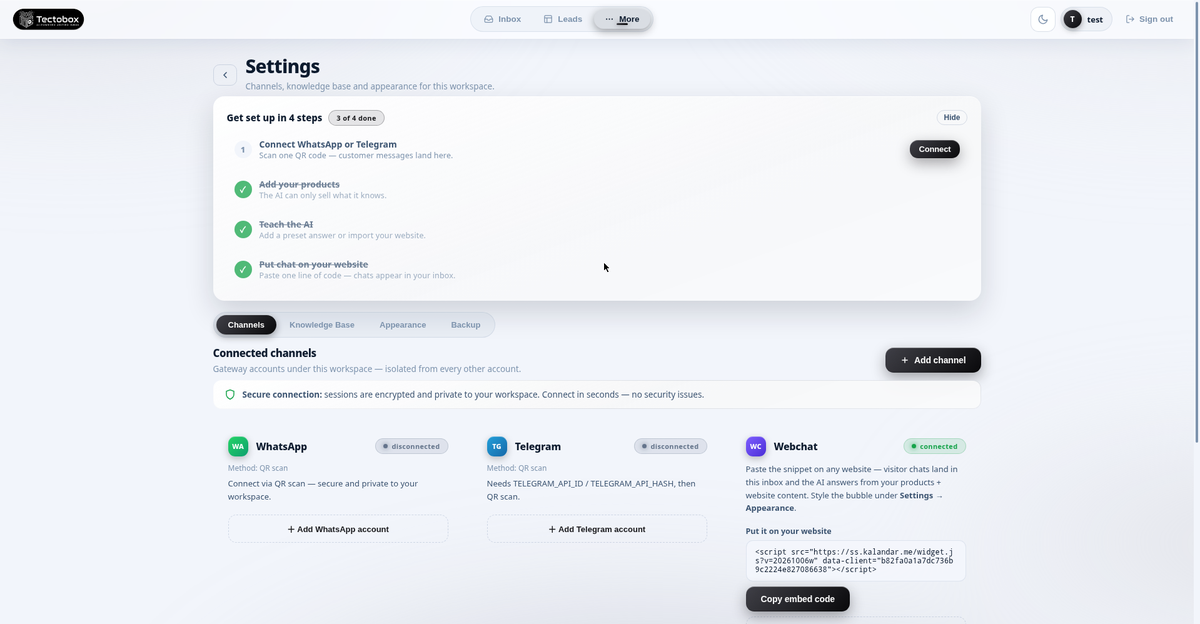
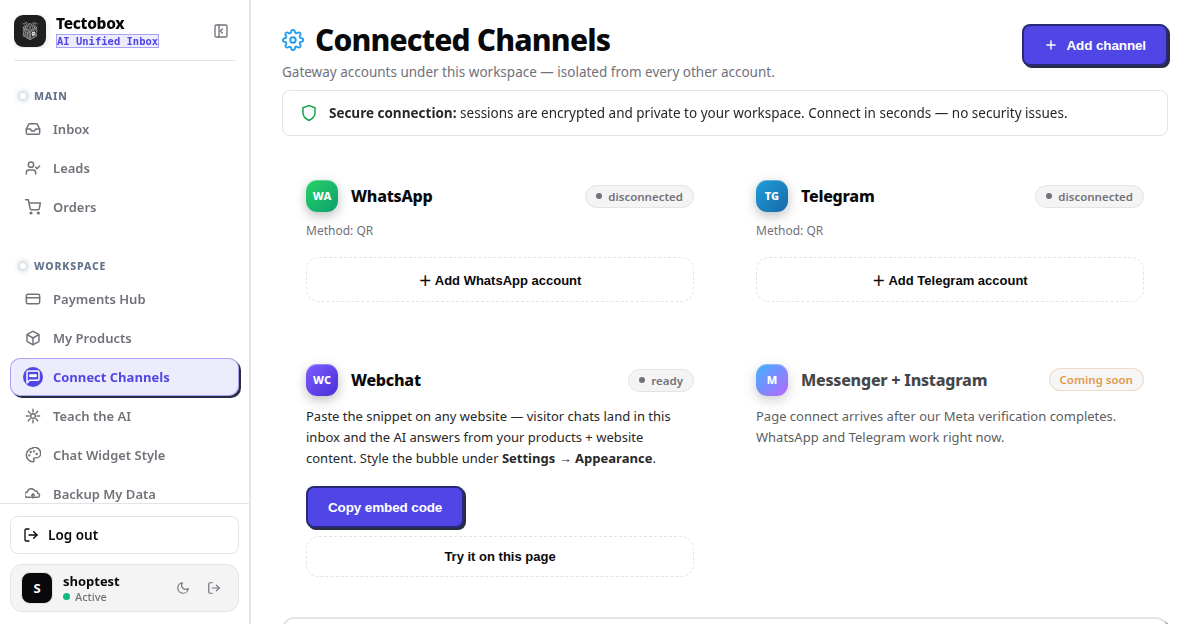
fix(item-6): re-shoot P22 guide screenshots against the current UI
The 6 Help-guide screenshots were from 2026-11-11 (pre-modular UI:
old top pill nav, old inbox/products layout). Re-captured with
headless Chromium against the current modular UI at 1200x624:
- guide-connect: Connected Channels (WhatsApp/Telegram/Webchat cards)
- guide-products: the Add-product form (SKU/name/category/price/
  stock/image URL — matches the guide text exactly)
- guide-teach: Teach the AI form (Documents/Presets/Website import)
- guide-inbox: Inbox empty state (current sidebar + empty state)
- guide-leads: Lead Intelligence table + filters, empty state
- guide-widget: Chat Widget Style with live preview
Captured with EMPTY mocked data (no fake customers/products in
the shots — honest empty states and empty forms). The embed snippet
is location.origin-based, so its code box was hidden for the capture
only (a local 127.0.0.1 URL must never appear in a production guide);
the app itself is untouched.
Bumped all 6 img refs ?v=20261006c -> ?v=20261115 (sw.js serves
?v= URLs cache-first). Screenshot script kept at
~/workspace/vps-audit/guide-screenshots.mjs. Verified each shot
visually; 0 page errors during capture.

diff --git a/services/api/public/views/guide.js b/services/api/public/views/guide.js
@@ -11,16 +11,16 @@ const GUIDES = [
     id: 'start', icon: 'zap', title: 'Your first 5 minutes',
     sub: 'Do these 3 things and Tectobox starts working for you',
     steps: [
-      { t: 'Connect WhatsApp', d: 'Go to Connect Channels → WhatsApp → Add account, then scan the QR code with your business phone. New chats will appear in your Inbox automatically.', img: '/img/guide-connect.png?v=20261006c', go: ['Connect WhatsApp', () => gotoSettings('channels')] },
-      { t: 'Add your products', d: 'Go to My Products → Add product. Enter the name, SKU, price, stock, category and a photo. The AI uses this to answer "how much?" questions.', img: '/img/guide-products.png?v=20261006c', go: ['Add a product', () => showView('products')] },
-      { t: 'Teach the AI', d: 'Go to Teach the AI → add your delivery rules, payment methods and common answers. Anything you write here, the AI will know.', img: '/img/guide-teach.png?v=20261006c', go: ['Teach the AI', () => gotoSettings('kb')], req: 'knowledge' },
+      { t: 'Connect WhatsApp', d: 'Go to Connect Channels → WhatsApp → Add account, then scan the QR code with your business phone. New chats will appear in your Inbox automatically.', img: '/img/guide-connect.png?v=20261115', go: ['Connect WhatsApp', () => gotoSettings('channels')] },
+      { t: 'Add your products', d: 'Go to My Products → Add product. Enter the name, SKU, price, stock, category and a photo. The AI uses this to answer "how much?" questions.', img: '/img/guide-products.png?v=20261115', go: ['Add a product', () => showView('products')] },
+      { t: 'Teach the AI', d: 'Go to Teach the AI → add your delivery rules, payment methods and common answers. Anything you write here, the AI will know.', img: '/img/guide-teach.png?v=20261115', go: ['Teach the AI', () => gotoSettings('kb')], req: 'knowledge' },
     ]
   },
   {
     id: 'inbox', icon: 'inbox', title: 'Replying to chats',
     sub: 'Every customer message lands here',
     steps: [
-      { t: 'Open the Inbox tab', d: 'Newest conversations are on top. The colored dot shows the channel — green WhatsApp, blue Telegram, purple website chat.', img: '/img/guide-inbox.png?v=20261006c' },
+      { t: 'Open the Inbox tab', d: 'Newest conversations are on top. The colored dot shows the channel — green WhatsApp, blue Telegram, purple website chat.', img: '/img/guide-inbox.png?v=20261115' },
       { t: 'Tap a conversation', d: 'You see the full chat history plus the customer\'s profile on the side. Type in the box at the bottom and press send — just like any chat app.' },
       { t: 'Filter by channel', d: 'Tap the "Filter by channel" button at the top to show only WhatsApp, only Telegram, or only website chats. Tap the magnifier to search any conversation.' },
       { t: 'Hand icon = needs you', d: 'When a chat needs a human, tap the hand icon at the top. The AI will stay quiet on those chats until you turn it off.' },
@@ -30,7 +30,7 @@ const GUIDES = [
     id: 'leads', icon: 'chart', title: 'Understanding Leads',
     sub: 'Who is ready to buy?',
     steps: [
-      { t: 'Open the Leads tab', d: 'Tectobox watches every chat and lists people who showed buying interest — with a score from 0 to 100.', img: '/img/guide-leads.png?v=20261006c' },
+      { t: 'Open the Leads tab', d: 'Tectobox watches every chat and lists people who showed buying interest — with a score from 0 to 100.', img: '/img/guide-leads.png?v=20261115' },
       { t: 'Read the score', d: 'Above 70 = Hot (reply now). 40–70 = Warm (follow up soon). Below 40 = Cold (let the AI nurture them).' },
       { t: 'Tap a lead', d: 'See what they want, the suggested next action, and one-tap buttons to message or call them.' },
     ]
@@ -39,7 +39,7 @@ const GUIDES = [
     id: 'widget', icon: 'sun', title: 'Chat on your website',
     sub: 'Let visitors talk to your AI',
     steps: [
-      { t: 'Open Chat Widget Style', d: 'Open Chat Widget Style in the sidebar (under WORKSPACE). Pick colors and write your greeting message.', img: '/img/guide-widget.png?v=20261006c', go: ['Open widget style', () => gotoSettings('appearance')] },
+      { t: 'Open Chat Widget Style', d: 'Open Chat Widget Style in the sidebar (under WORKSPACE). Pick colors and write your greeting message.', img: '/img/guide-widget.png?v=20261115', go: ['Open widget style', () => gotoSettings('appearance')] },
       { t: 'Copy the code', d: 'Go to Connect Channels → Webchat → Copy embed code. Paste it on your website before </body>. Done — visitors can now chat with your AI.' },
     ]
   },
